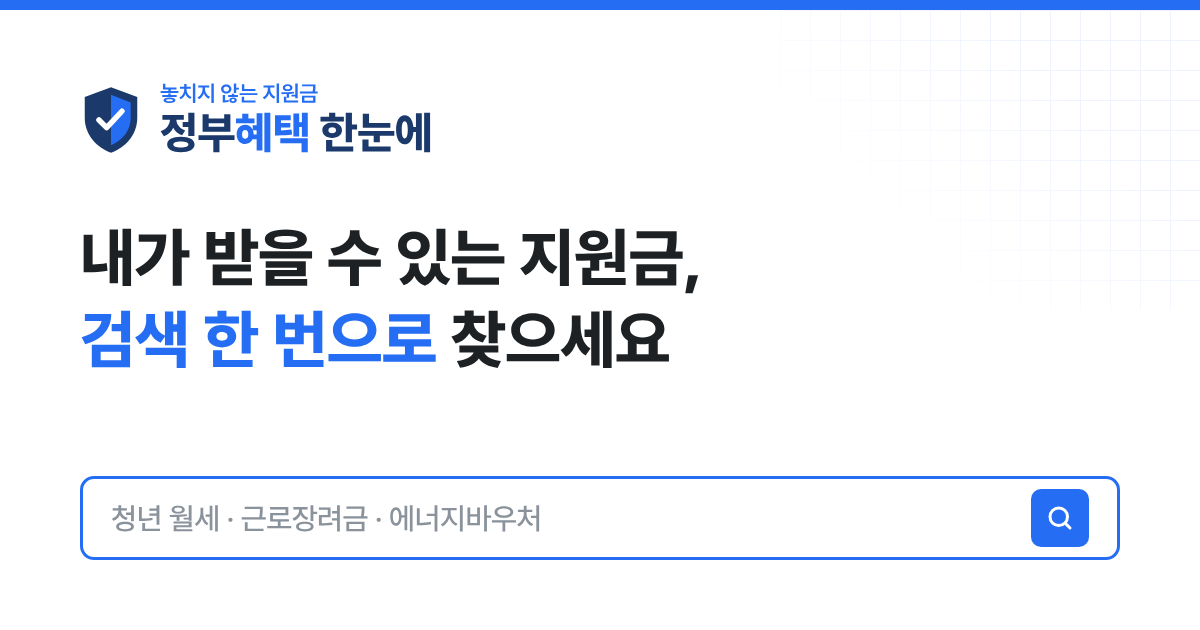
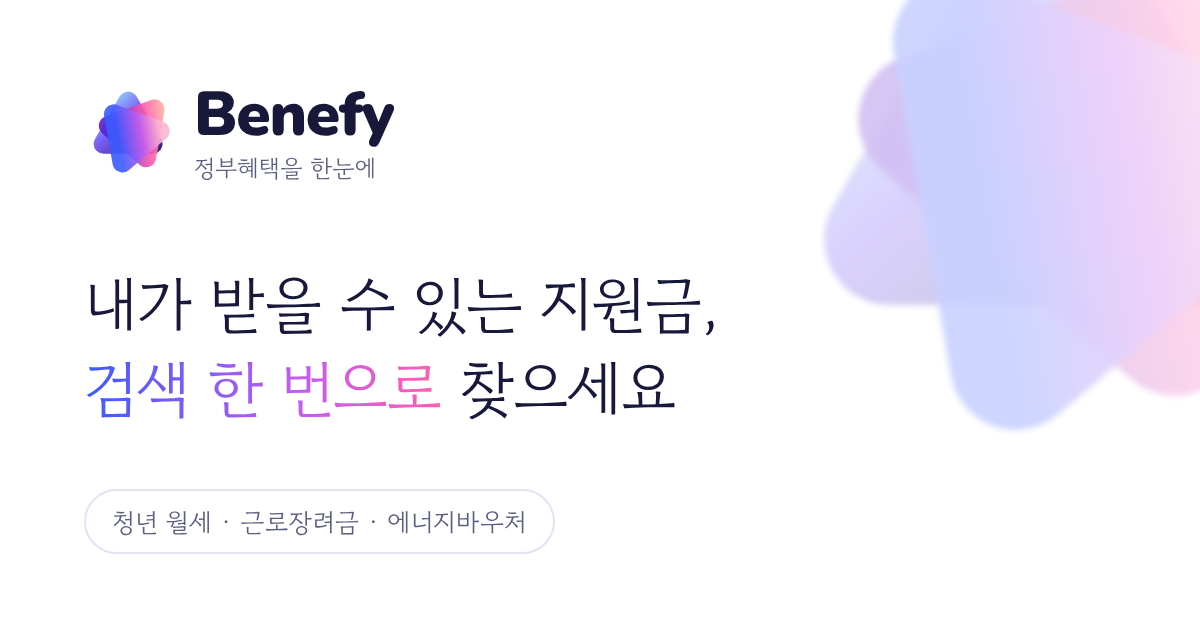
브랜드 Benefy: 그라데이션 별 로고 + 둥근 글꼴 워드마크, 서브타이틀 '정부혜택을 한눈에', 헤더·파비콘·공유 썸네일·프로필·배너 교체
Claude-Session: https://claude.ai/code/session_017PjgJCdpg12vKAbgUepsEm

diff --git a/templates/base.html b/templates/base.html
@@ -24,7 +24,7 @@
 {% if naver_verify %}<meta name="naver-site-verification" content="{{ naver_verify }}">{% endif %}
 <link rel="preconnect" href="https://cdn.jsdelivr.net">
 <link rel="stylesheet" href="https://cdn.jsdelivr.net/gh/orioncactus/pretendard@v1.3.9/dist/web/variable/pretendardvariable-dynamic-subset.min.css">
-<link rel="stylesheet" href="{{ base }}/static/style.css?v=7">
+<link rel="stylesheet" href="{{ base }}/static/style.css?v=8">
 {% if adsense %}<script async src="https://pagead2.googlesyndication.com/pagead/js/adsbygoogle.js?client={{ adsense }}" crossorigin="anonymous"></script>{% endif %}
 {% block head %}{% endblock %}
 </head>
@@ -32,7 +32,7 @@
 <div class="topbar"><div class="wrap">공공데이터로 정리한 <b>민간 지원금 안내 사이트</b>입니다 · 정부기관이 아니며, 신청은 각 기관 공식 사이트에서 하세요</div></div>
 <header class="hdr" id="top">
   <div class="wrap hdr-in">
-    <a class="logo" href="{{ base }}/" aria-label="{{ site_name }} 홈"><svg class="logo-mark" viewBox="0 0 56 64" aria-hidden="true"><path d="M28 2 L52 11 V30 C52 46 41 57 28 62 C15 57 4 46 4 30 V11 Z" fill="#1b3a6b"/><path d="M28 9 L46 16 V30 C46 42 38 51 28 55 Z" fill="#256ef4"/><path d="M17 32 l7 7 l14-15" fill="none" stroke="#fff" stroke-width="5" stroke-linecap="round" stroke-linejoin="round"/></svg><span class="logo-txt"><small>놓치지 않는 지원금</small><b>정부<em>혜택</em> 한눈에</b></span></a>
+    <a class="logo" href="{{ base }}/" aria-label="{{ site_name }} 홈"><img class="logo-img" src="{{ base }}/static/img/brand/logo.png" alt="Benefy 정부혜택을 한눈에" width="280" height="70"></a>
     <nav class="gnb" id="gnb">
       <a href="{{ base }}/">홈</a>
       <a href="{{ base }}/check/" class="gnb-hl">자격 진단</a>
@@ -49,7 +49,7 @@
 <footer class="ftr">
   <div class="wrap ftr-in">
     <div>
-      <div class="logo"><svg class="logo-mark" viewBox="0 0 56 64" aria-hidden="true"><path d="M28 2 L52 11 V30 C52 46 41 57 28 62 C15 57 4 46 4 30 V11 Z" fill="#1b3a6b"/><path d="M28 9 L46 16 V30 C46 42 38 51 28 55 Z" fill="#256ef4"/><path d="M17 32 l7 7 l14-15" fill="none" stroke="#fff" stroke-width="5" stroke-linecap="round" stroke-linejoin="round"/></svg><span class="logo-txt"><small>놓치지 않는 지원금</small><b>정부<em>혜택</em> 한눈에</b></span></div>
+      <div class="logo"><img class="logo-img" src="{{ base }}/static/img/brand/logo.png" alt="Benefy 정부혜택을 한눈에" width="280" height="70"></div>
       <p>행정안전부 「대한민국 공공서비스(혜택) 정보」 공공데이터를 바탕으로 정부·지자체 지원제도를 알기 쉽게 정리합니다. 지원 조건과 일정은 바뀔 수 있으니 신청 전 반드시 담당 기관의 공식 안내를 확인하세요.</p>
     </div>
     <div class="ftr-links">

diff --git a/static/style.css b/static/style.css
@@ -290,3 +290,8 @@ body{background:var(--bg)}
   .catgrid{grid-template-columns:repeat(3,1fr)}.cat{font-size:13px}
   .topbar{font-size:11.5px;line-height:1.5}
 }
+
+/* v8 Benefy 로고 (이미지) */
+.logo-img{height:50px;width:auto;display:block}
+.ftr .logo-img{height:38px}
+@media(max-width:640px){.logo-img{height:42px}}

diff --git a/bot/config.py b/bot/config.py
@@ -22,7 +22,7 @@ TELEGRAM_BOT_TOKEN = _env("TELEGRAM_BOT_TOKEN")
 TELEGRAM_CHAT_ID = _env("TELEGRAM_CHAT_ID")  # 비워두면 봇에 처음 메시지 보낸 사람으로 자동 등록
 
 # --- 일반 설정 (GitHub Variables) ---
-SITE_NAME = _env("SITE_NAME", "정부혜택 한눈에")
+SITE_NAME = _env("SITE_NAME", "Benefy 정부혜택 한눈에")
 _repo = os.environ.get("GITHUB_REPOSITORY", "")
 _default_url = f"https://{_repo.split('/')[0]}.github.io/{_repo.split('/')[1]}" if "/" in _repo else "http://localhost:8000"
 CF_PAGES_PROJECT = _env("CF_PAGES_PROJECT", "jiwon-hyetaek")
